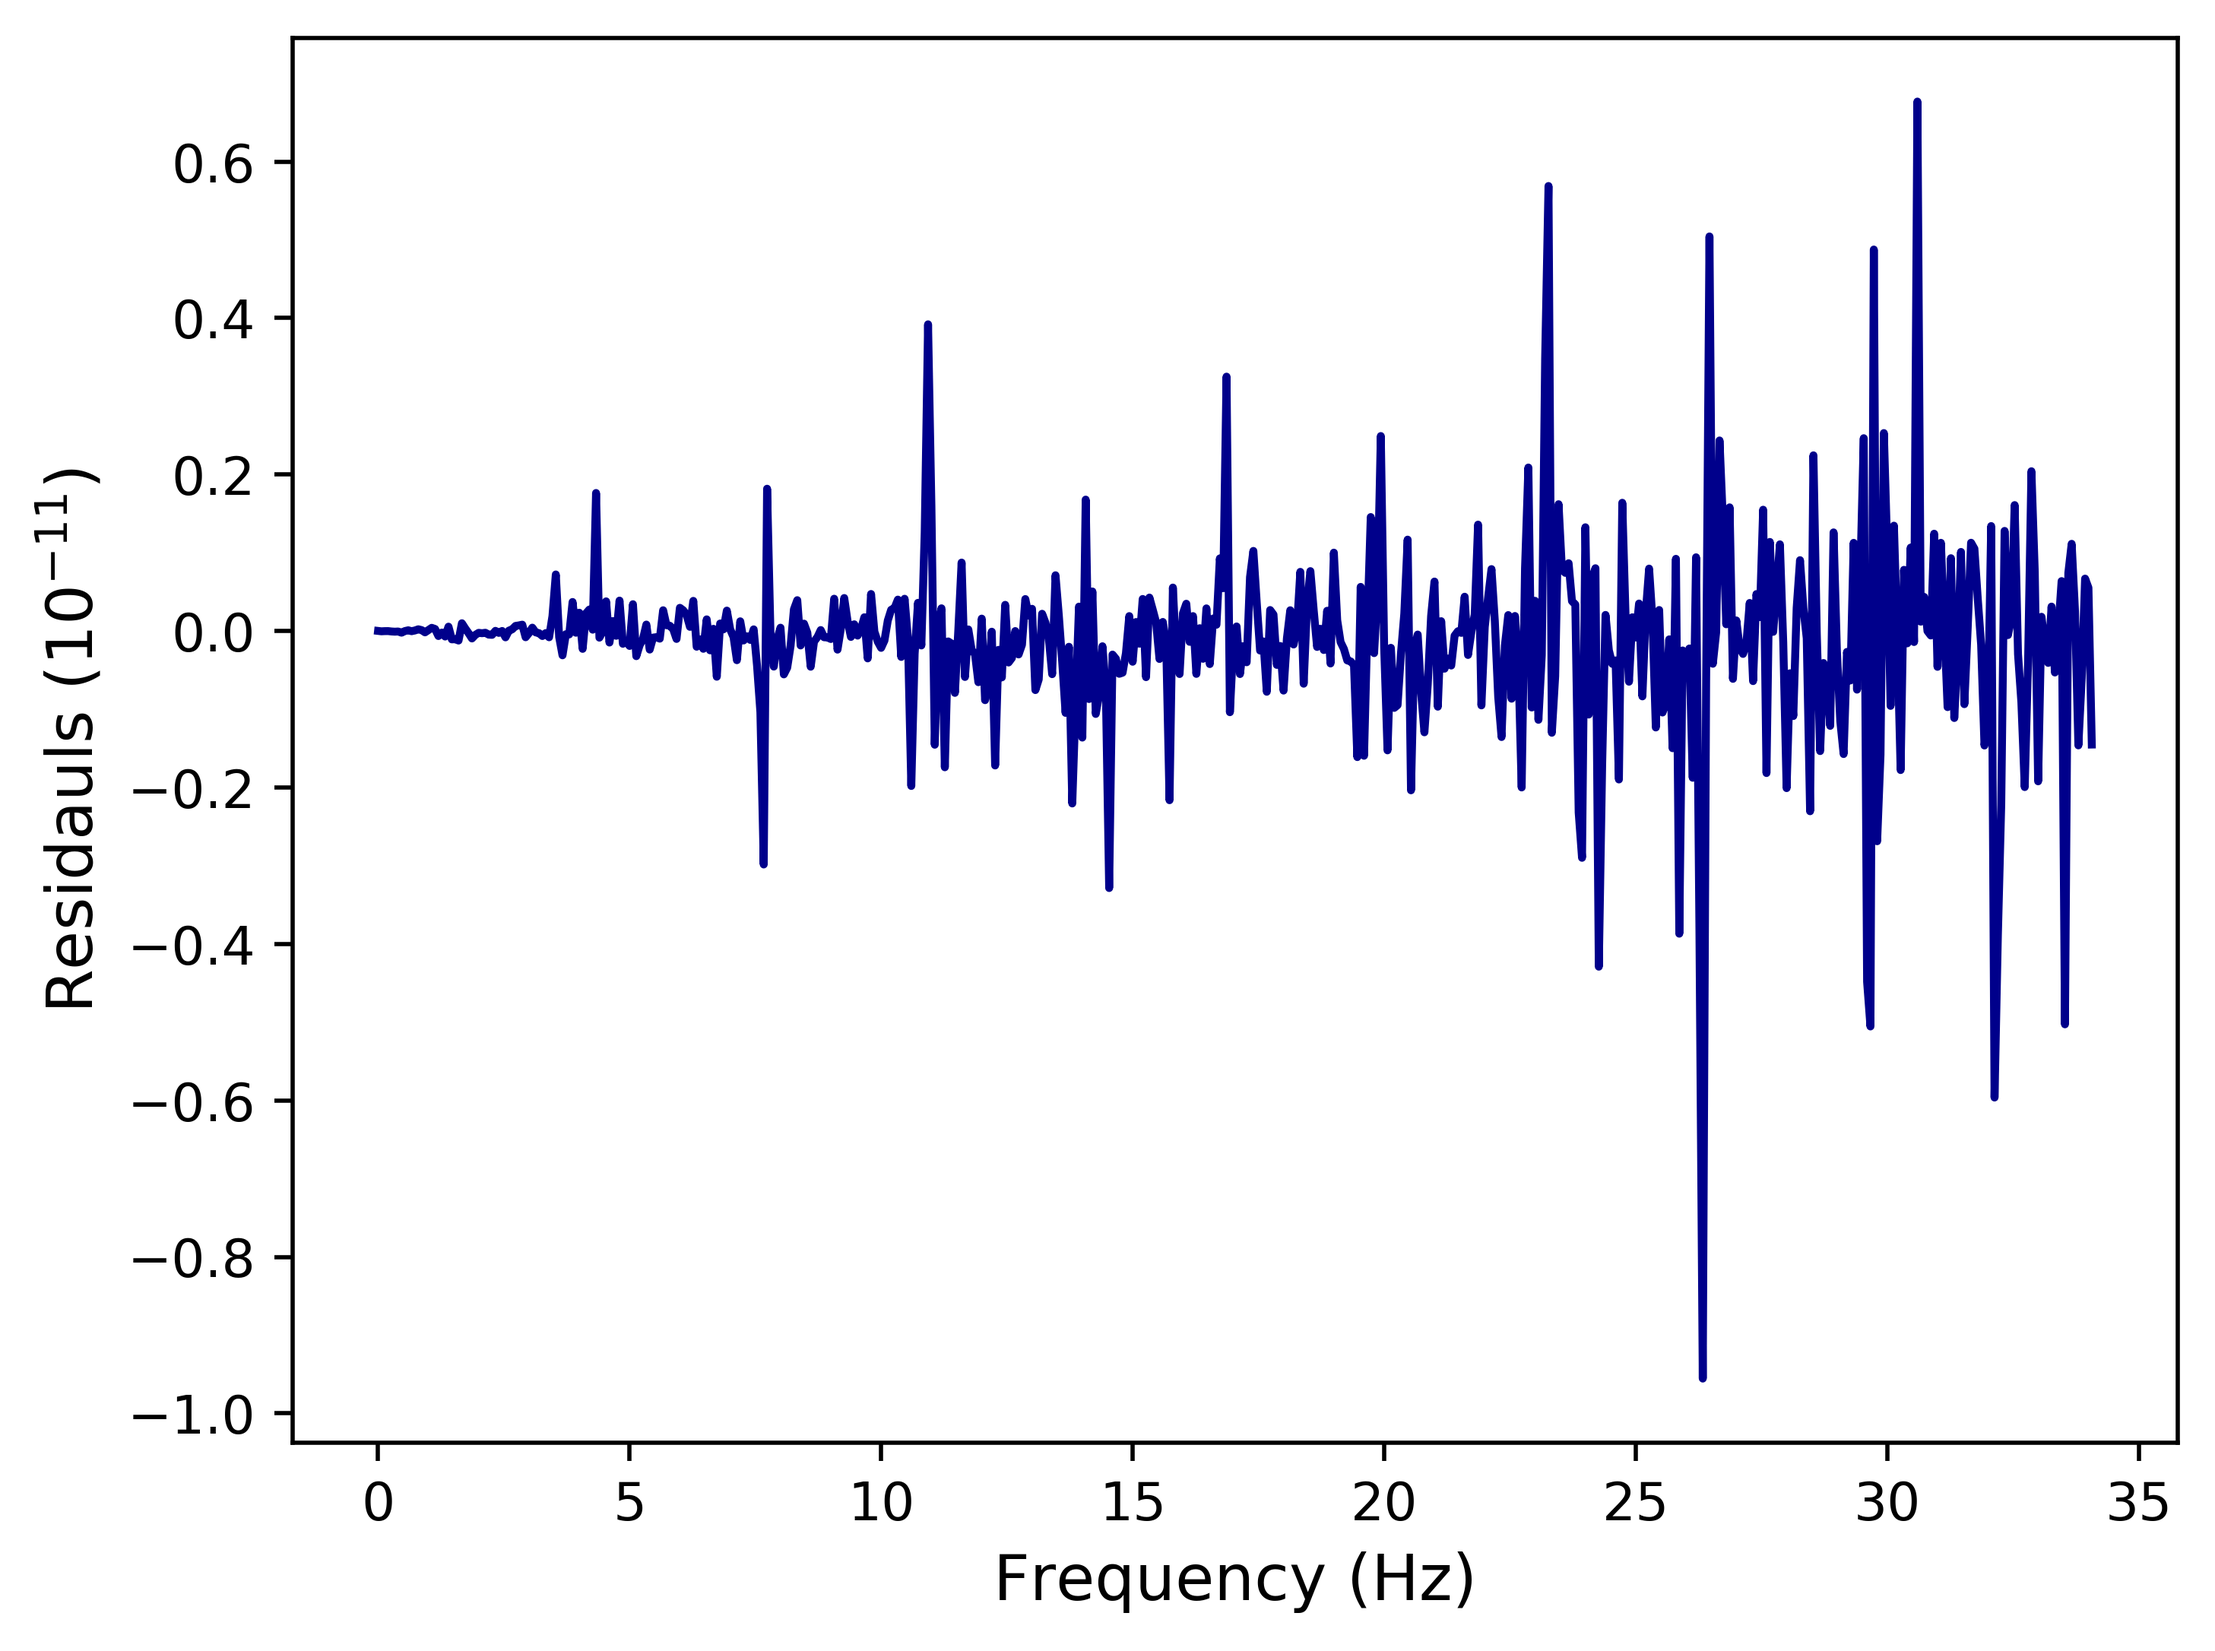
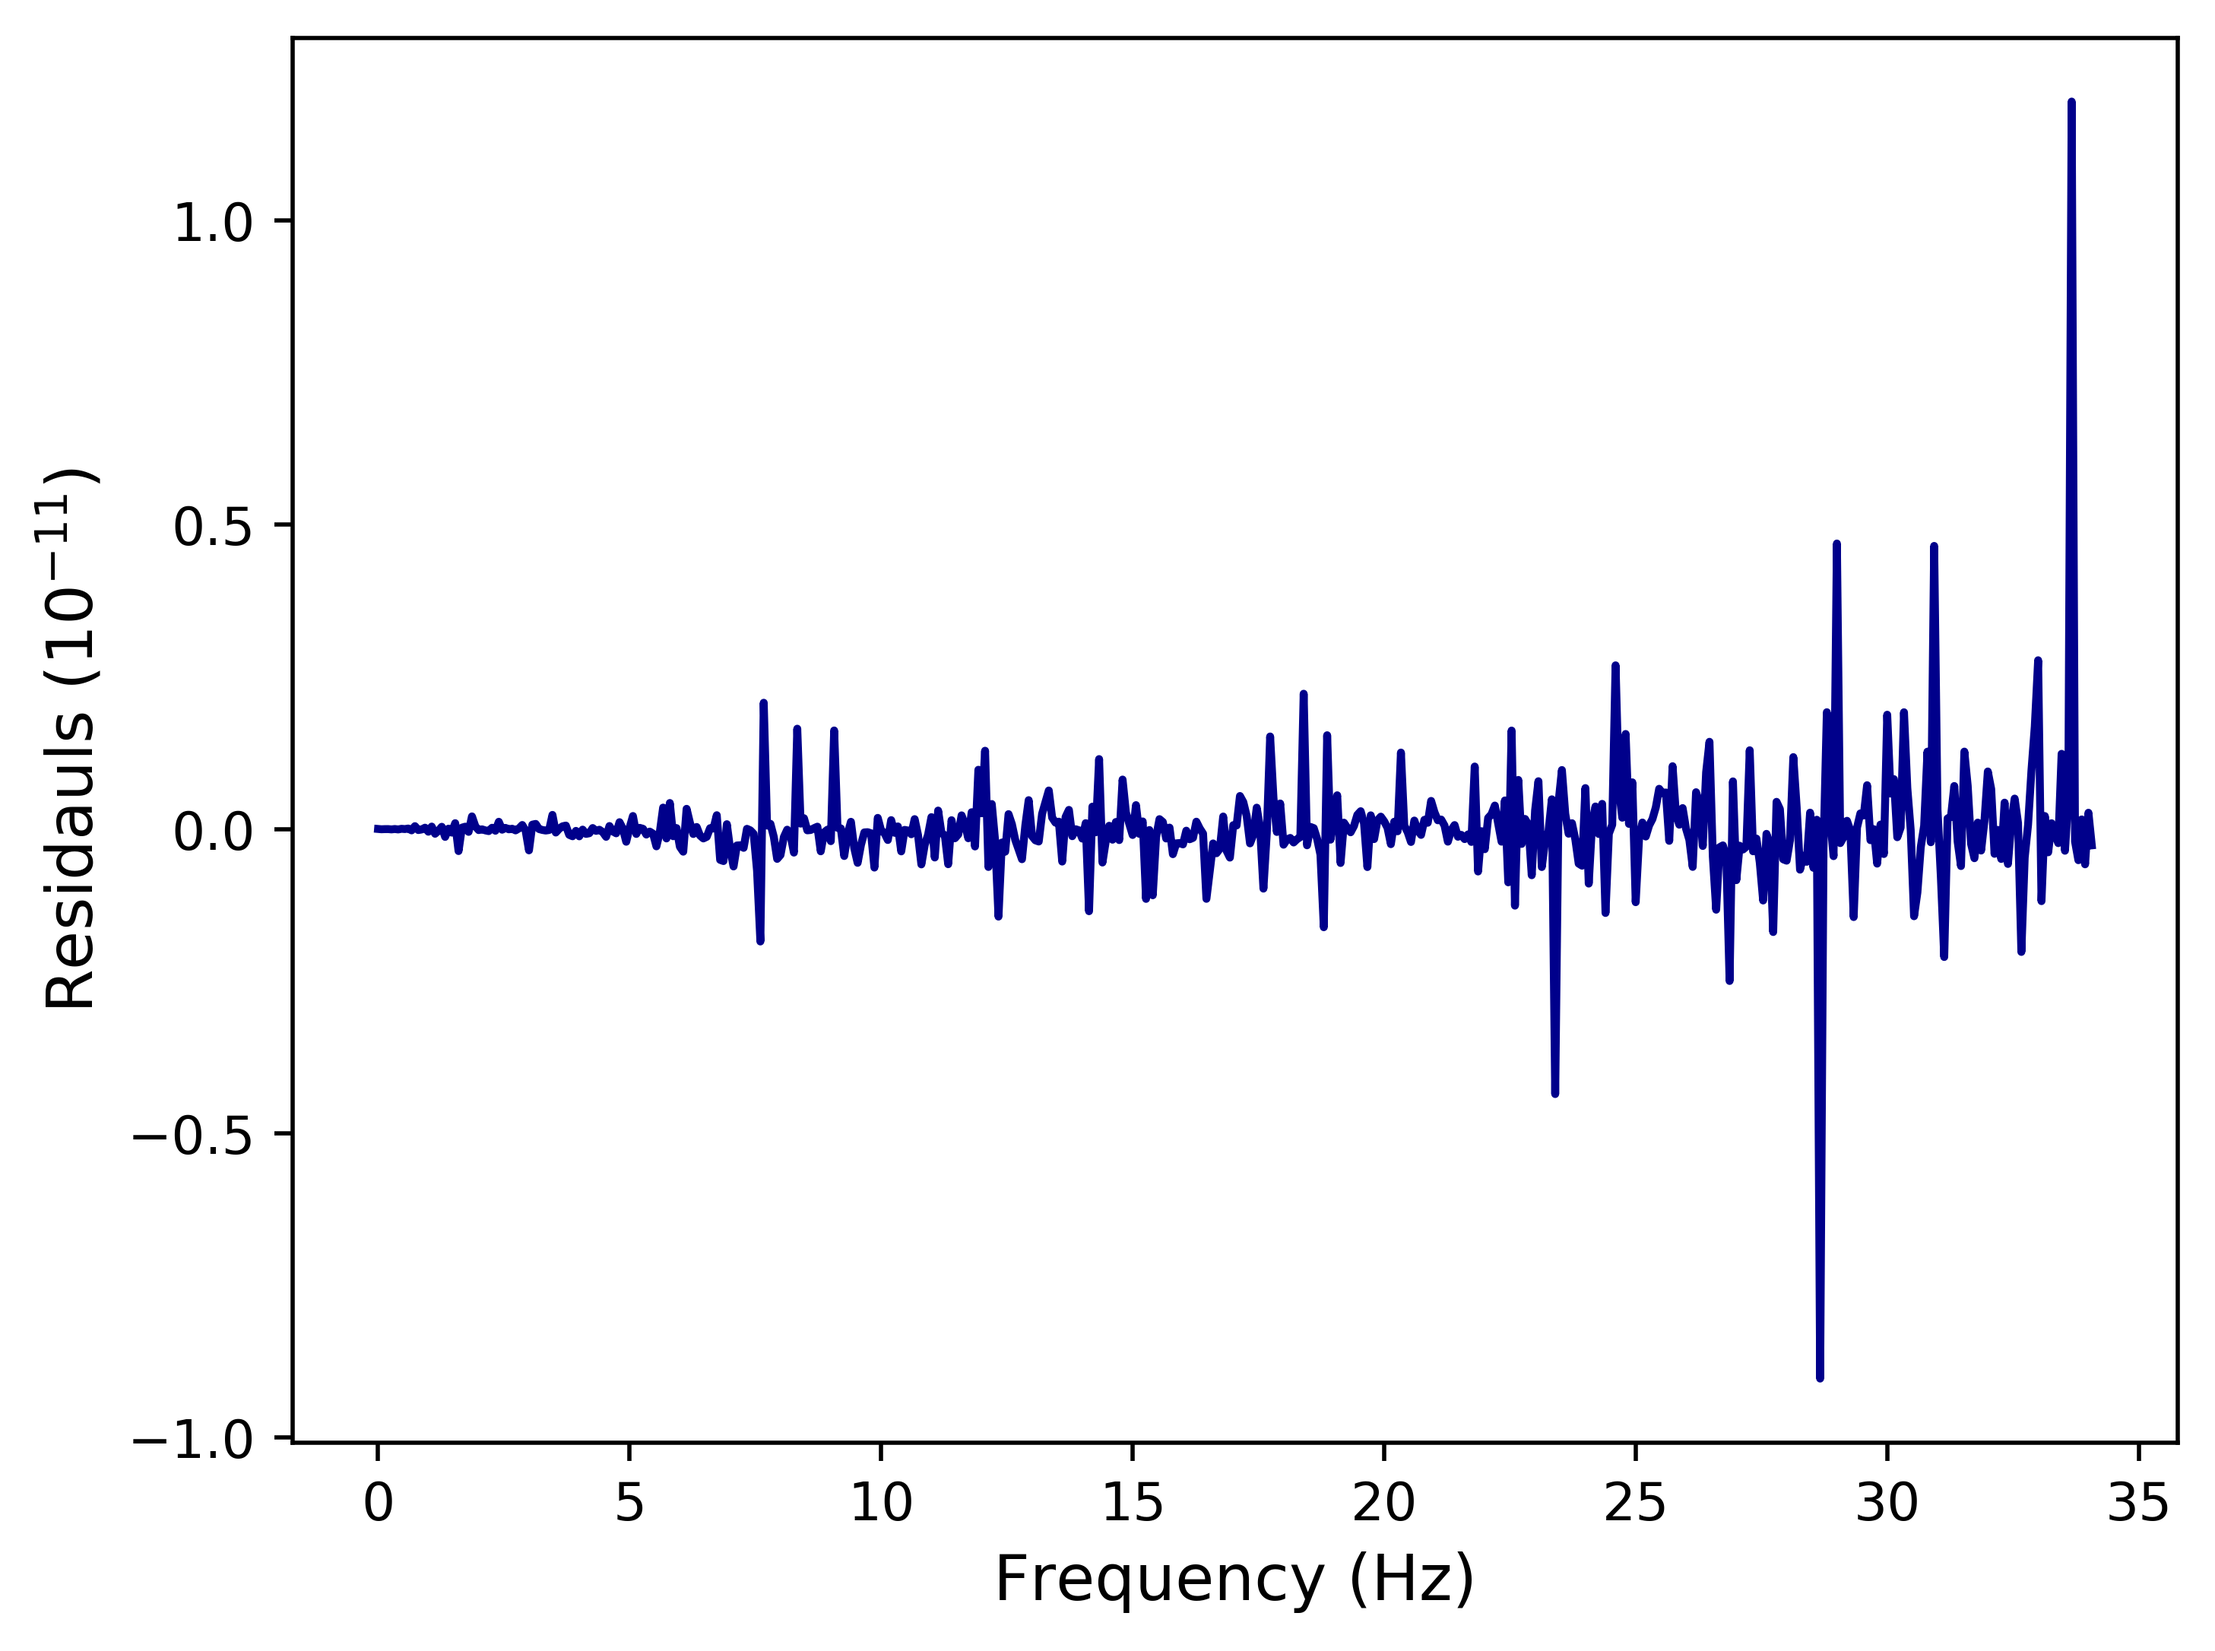
problem 5 update

diff --git a/assignment4/problem_5.py b/assignment4/problem_5.py
@@ -10,20 +10,21 @@ y = np.sin(2*np.pi*f*x)
 
 #Determining the fft from numpy (for all the following fft's we cut out the negative portion of the transform as it is symmetric anyways)
 fftsine = fft(y)[:int(len(y)/2)]
-freq = fftfreq(x.shape[-1])[:int(len(y)/2)]/((x.max()-x.min())/len(x))
+freq = fftfreq(x.shape[-1])[:int(len(y)/2)]/((x.max()-x.min())/len(x)) #converting to actual frequencies
 plt.plot(freq,np.abs(fftsine),"r-",label="FFT",linewidth=2)
 
 #Analytic estimate of the DFT
 M = np.empty(shape=(N,N),dtype=complex)
 for i in range(0,N):
     for j in range(0,N):
-        M[j,i] = np.exp(-2*np.pi*complex(0,1)*i*j/N)
+        M[i,j] = np.exp(-2*np.pi*complex(0,1)*i*j/N)
+
 fftanalytic = M@y
 plt.plot(freq,np.abs(fftanalytic)[:int(len(y)/2)],"b--",label="Analytic",linewidth=2)
 plt.xlabel("Frequency (Hz)",fontsize=12)
 plt.ylabel("Amplitude",fontsize=12)
 plt.legend(fontsize=12)
-#plt.savefig("problem_5_analytic.png",bbox_inches="tight",dpi=500)
+plt.savefig("problem_5_analytic.png",bbox_inches="tight",dpi=500)
 plt.show()
 
 #Plot Residuals of the fit
@@ -31,11 +32,11 @@ res = np.abs(fftanalytic)[:int(len(y)/2)]-np.abs(fftsine)
 plt.plot(freq,res*(1e11),color="darkblue")
 plt.xlabel("Frequency (Hz)",fontsize=12)
 plt.ylabel(r"Residauls ($10^{-11}$)",fontsize=12)
-#plt.savefig("problem_5_analyticres.png",bbox_inches="tight",dpi=500)
+plt.savefig("problem_5_analyticres.png",bbox_inches="tight",dpi=500)
 plt.show()
 
-#print("Mean Residual=",np.mean(res))
-#print("Residual STD=",np.std(res,ddof=1))
+print("Mean Residual =",np.mean(res))
+print("Residual STD =",np.std(res,ddof=1))
 
 #Windowing: choose the window function to be 0.5-0.5cos(2πx/N) (i.e. the Hann window)
 xx = np.linspace(0,N-1,N)/N
@@ -46,7 +47,7 @@ plt.plot(freq,np.abs(fftsine),"r-",linewidth=2,label="Without Hann Window")
 plt.xlabel("Frequency (Hz)",fontsize=12)
 plt.ylabel("Amplitude",fontsize=12)
 plt.legend(fontsize=12)
-#plt.savefig("problem_5_Hann.png",bbox_inches="tight",dpi=500)
+plt.savefig("problem_5_Hann.png",bbox_inches="tight",dpi=500)
 plt.show()
 
 #Plotting a log plot to compare the sine wave without window to the function with a window
@@ -55,7 +56,7 @@ plt.semilogy(freq,np.abs(fftsine),"r-",label="Without Hann Window")
 plt.xlabel("Frequency (Hz)",fontsize=12)
 plt.ylabel("Amplitude",fontsize=12)
 plt.legend(fontsize=12)
-#plt.savefig("problem_5_Hannlog.png",bbox_inches="tight",dpi=500)
+plt.savefig("problem_5_Hannlog.png",bbox_inches="tight",dpi=500)
 plt.show()
 
 #Fourier transform of the window
@@ -72,8 +73,8 @@ def window(k):
 
 print("Analytic=", (window(np.linspace(0,N-1,N)))/N)"""
 
-#Recreating the window function with some code ;)
-fftsine = fft(y) #so we get the entire transform as we had cut out half of it before
+#Recreating the window function with some code
+fftsine = fft(y) #so we get the entire transform as we cut out half of it before to just get the positive
 fftwindowm = []
 for i in range(0,len(fftsine)):
     if i==0: #remember that it is symmetric, so we can find neighbor terms even for the boundary terms
@@ -90,6 +91,15 @@ plt.plot(freq,np.abs(fftwindowm),"r--",linewidth=2,label="Using Neighbors")
 plt.xlabel("Frequency (Hz)",fontsize=12)
 plt.ylabel("Amplitude",fontsize=12)
 plt.legend(fontsize=12)
+plt.savefig("problem_5_manwind.png",bbox_inches="tight",dpi=500)
 plt.show()
 
-print("Discrepancy =", np.mean(np.abs(fftwindowm)-np.abs(fftnew)))
+#Plot Residuals of the fit
+reswind = np.abs(fftwindowm)-np.abs(fftnew)
+plt.plot(freq,reswind*(1e15),color="darkblue")
+plt.xlabel("Frequency (Hz)",fontsize=12)
+plt.ylabel(r"Residauls ($10^{-15}$)",fontsize=12)
+plt.savefig("problem_5_manwindres.png",bbox_inches="tight",dpi=500)
+plt.show()
+
+print("Discrepancy =", np.mean(reswind))
